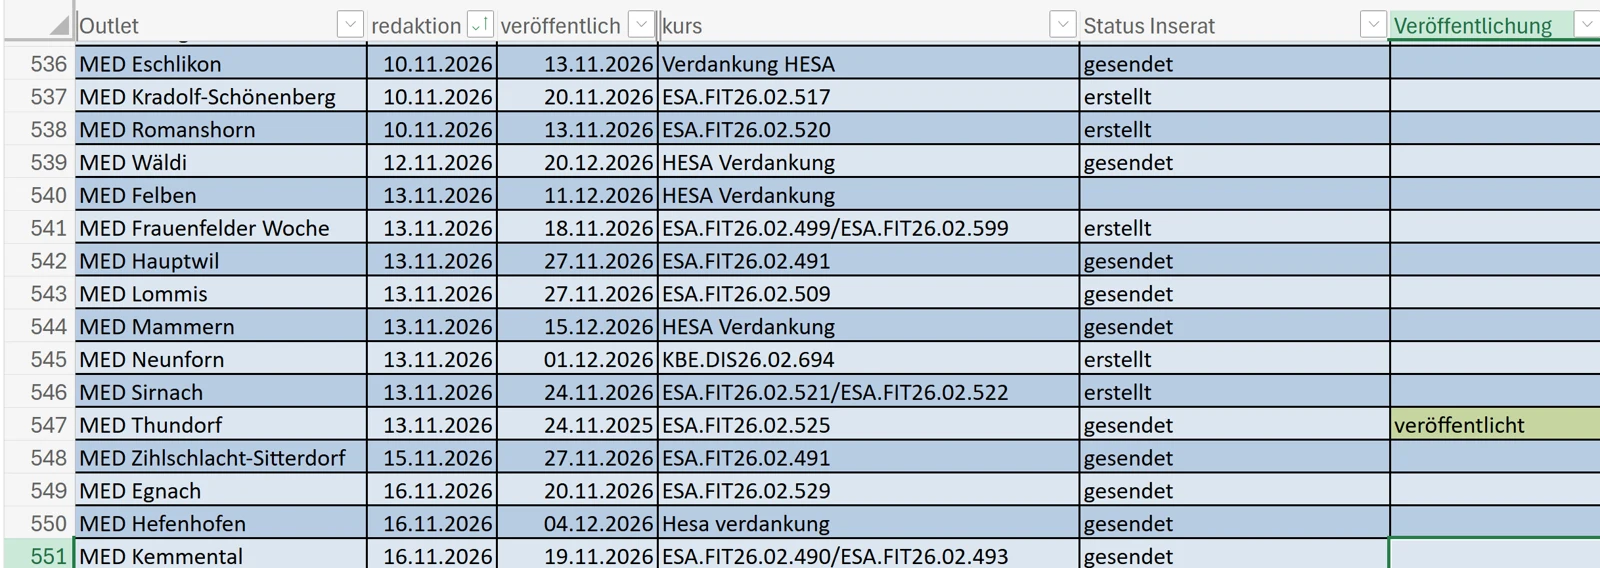
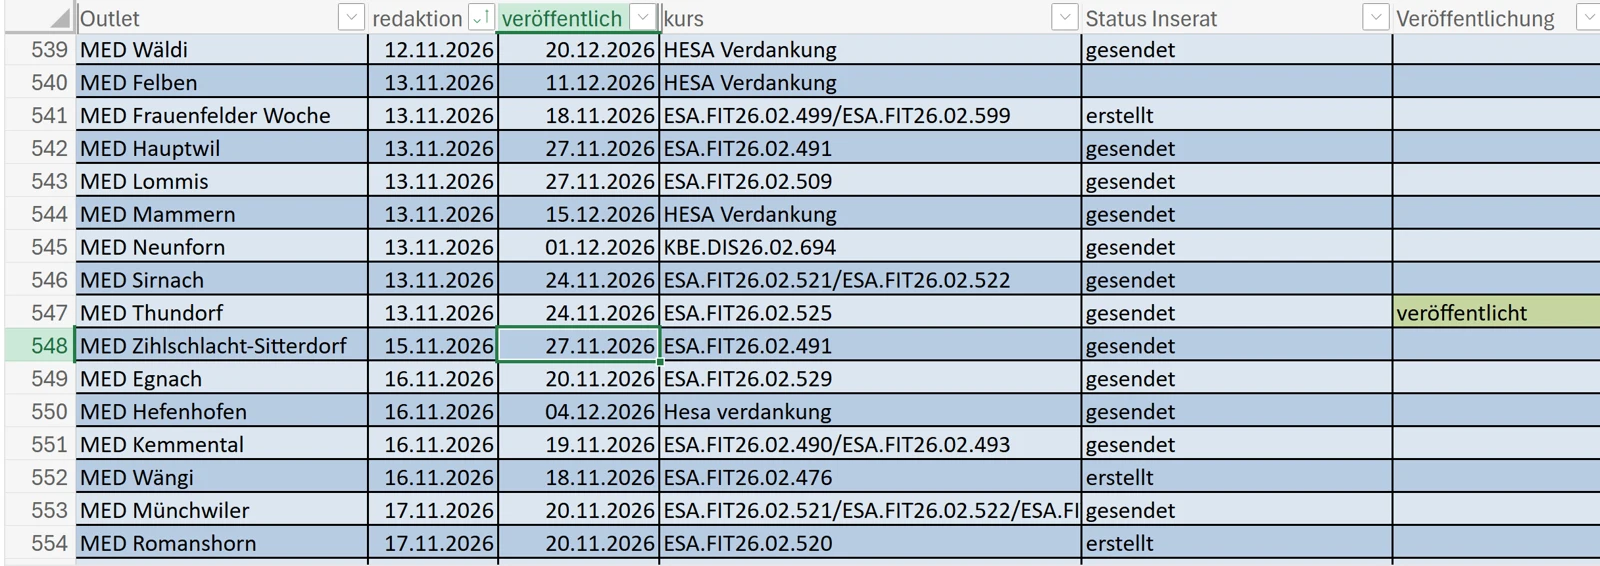
Inserate-Fallstudie: korrigierter Excel-Screenshot, Einsatz seit Oktober 2026
Claude-Session: https://claude.ai/code/session_01JKrMrTkTETusU8bZeWgN99

diff --git a/index.html b/index.html
@@ -946,7 +946,7 @@
         de: {
           title: 'Automatisierter Inserate-Versand an Gemeindeblätter',
           lead: 'Jede Woche gehen Kursinserate an die Gemeindeblätter im Kanton Thurgau. Früher habe ich jedes Inserat von Hand erstellt und einzeln verschickt. Heute läuft der Prozess weitgehend automatisch, von der Termin-Liste bis zum fertigen Mail-Entwurf.',
-          facts: [['Rolle', 'Konzept und Umsetzung'], ['Rhythmus', 'Wöchentlich, Lauf am Mittwochmorgen'], ['Ziel', 'Möglichst viele Gratis-Inserate für Kurse'], ['Tools', 'Power Automate, Excel, Word, Outlook, SharePoint, Claude']],
+          facts: [['Rolle', 'Konzept und Umsetzung'], ['Im Einsatz', 'Seit Oktober 2026, Lauf jeden Mittwochmorgen'], ['Ziel', 'Möglichst viele Gratis-Inserate für Kurse'], ['Tools', 'Power Automate, Excel, Word, Outlook, SharePoint, Claude']],
           nav: { start: 'Ausgangslage', process: 'Vorgehen', solution: 'Lösung', result: 'Ergebnis' },
           problem: 'Jeden Montag kommt eine Liste mit den Redaktionsschlüssen der Gemeindeblätter. Für jeden Termin musste ich ein Inserat von Hand gestalten, ablegen und einzeln per Outlook verschicken. Das kostete jede Woche rund einen Vormittag.',
           goal: 'Möglichst viele Gratis-Inserate platzieren, ohne dass der Aufwand mit der Anzahl Gemeinden wächst. Die Inserate sollen immer für die nächsten 14 Tage bereitstehen.',
@@ -979,7 +979,7 @@
         en: {
           title: 'Automated ad distribution to municipal newsletters',
           lead: 'Every week, course ads go out to the municipal newsletters in the canton of Thurgau. I used to create each ad by hand and send it individually. Today the process runs largely automatically, from the deadline list to the finished email draft.',
-          facts: [['Role', 'Concept and implementation'], ['Cycle', 'Weekly, run on Wednesday morning'], ['Goal', 'As many free ad placements for courses as possible'], ['Tools', 'Power Automate, Excel, Word, Outlook, SharePoint, Claude']],
+          facts: [['Role', 'Concept and implementation'], ['In use', 'Since October 2026, runs every Wednesday morning'], ['Goal', 'As many free ad placements for courses as possible'], ['Tools', 'Power Automate, Excel, Word, Outlook, SharePoint, Claude']],
           nav: { start: 'Background', process: 'Process', solution: 'Solution', result: 'Result' },
           problem: 'Every Monday a list arrives with the editorial deadlines of the municipal newsletters. For each deadline I had to design an ad by hand, file it and send it individually via Outlook. That took about a morning every week.',
           goal: 'Place as many free ads as possible without the effort growing with the number of municipalities. Ads should always be ready for the next 14 days.',
